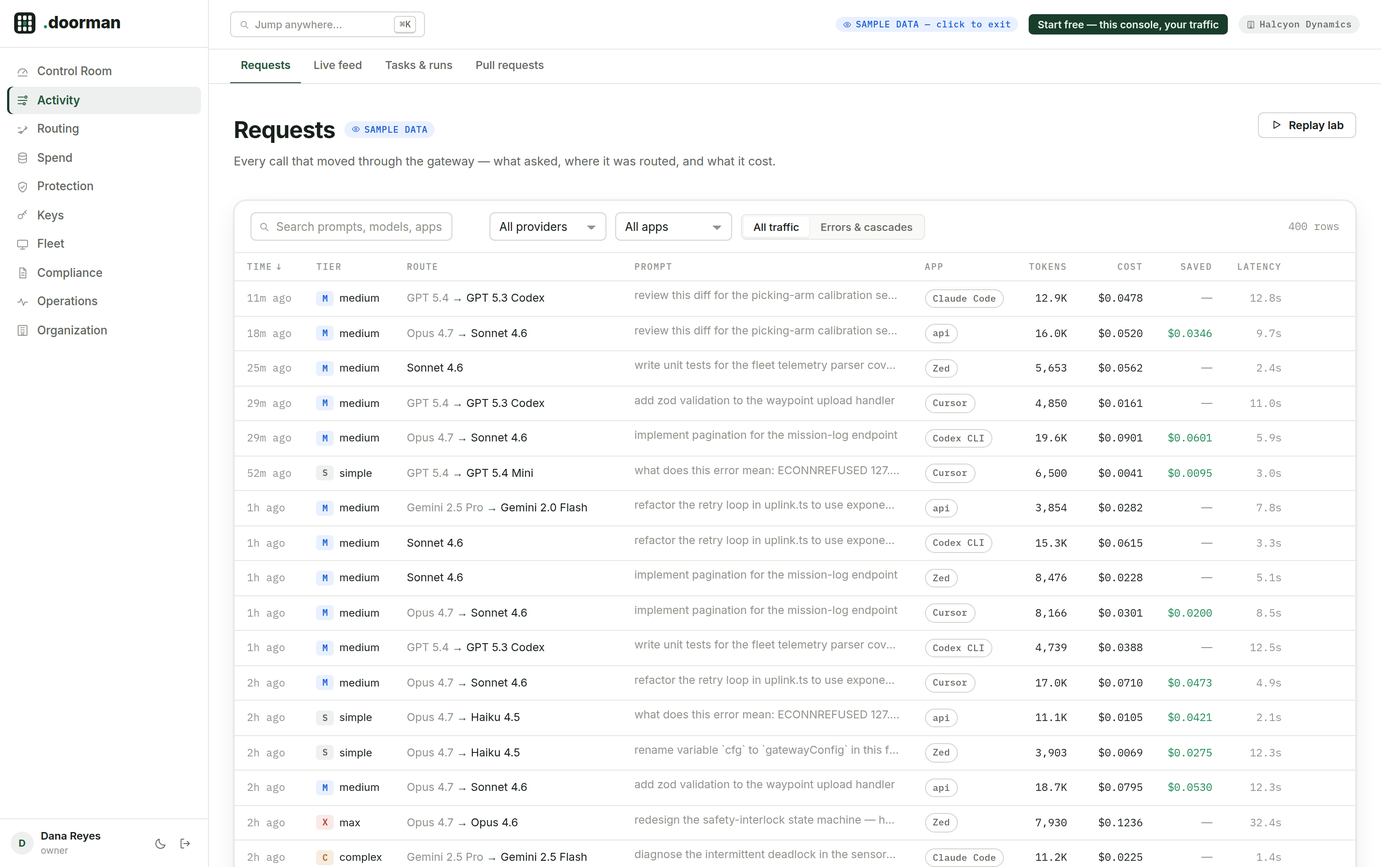
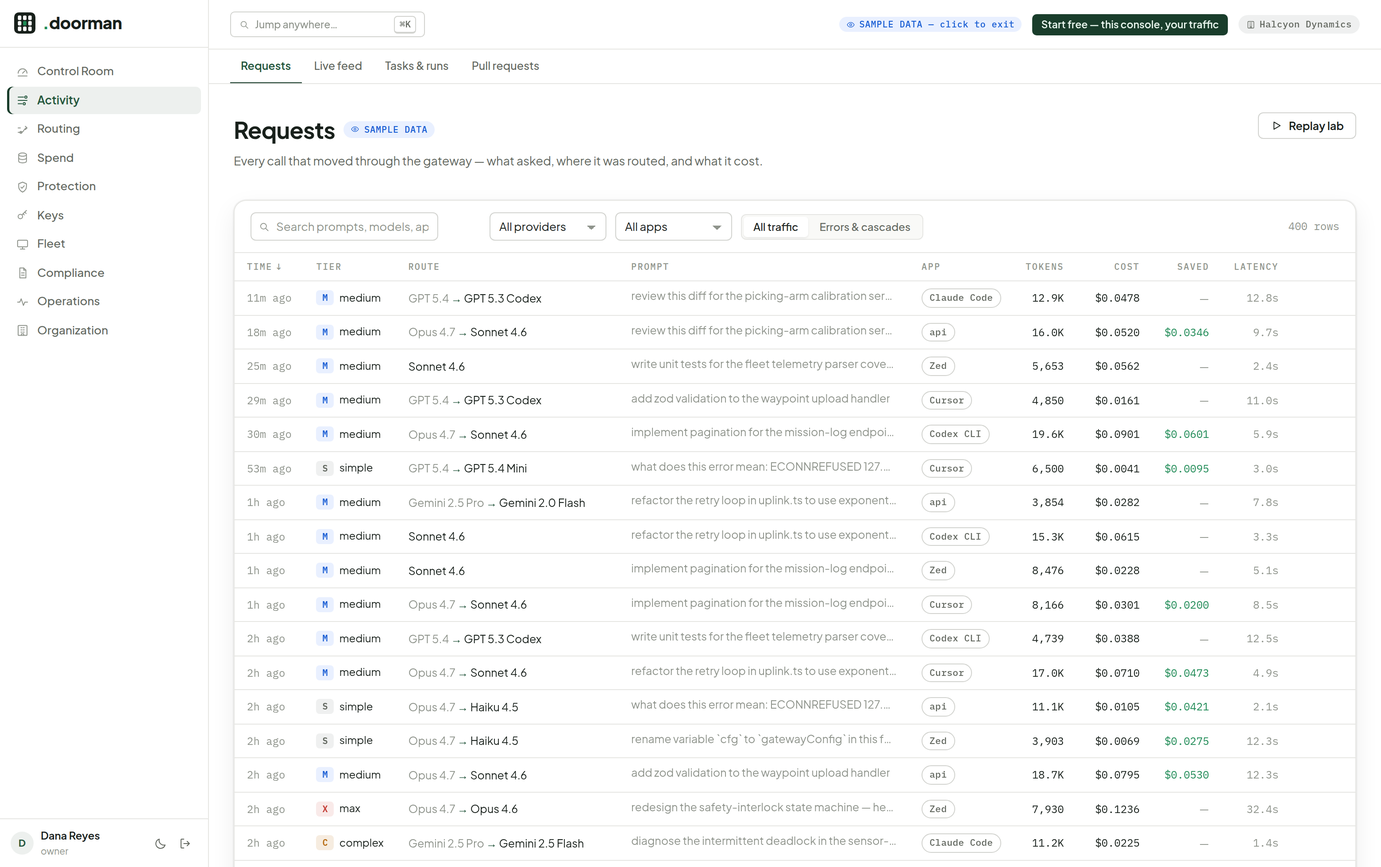
type: Plus Jakarta Sans (ea70011d8)

diff --git a/assets/index-CEr7aOwy.css b/assets/index-CEr7aOwy.css
@@ -1,0 +1,1 @@
+:root{--bg:#fff;--surface:#fff;--surface-2:#f9f9f7;--surface-3:#f1f1ee;--ink:#18201b;--ink-2:#62675f;--ink-3:#8f948c;--line:#e6e6e3;--line-2:#d2d3cf;--shadow:0 0 0 1px #14181408, 0 1px 3px #1418140f, 0 10px 28px #14181412;--shadow-lg:0 4px 12px #14181417, 0 16px 48px #14181424;--brand:#193d2b;--brand-ink:#24563c;--brand-hover:#24563c;--brand-soft:#193d2b14;--brand-ring:#193d2b59;--on-brand:#eaf7ef;--ok:#1e8a55;--ok-mark:#22a061;--ok-soft:#1e8a551f;--warn:#b66a10;--warn-mark:#cf8514;--warn-soft:#b66a1021;--danger:#c43c35;--danger-mark:#d2493f;--danger-soft:#c43c351c;--info:#175cd3;--info-mark:#2970ff;--info-soft:#2970ff1a;--neutral-soft:#4f5a5417;--s1:#0b7a50;--s2:#2f6bc4;--s3:#b98104;--s4:#c13d7f;--s5:#0e87b0;--s6:#d9481f;--s7:#7053d6;--s8:#6b7f1f;--seq-1:#5eb98e;--seq-2:#3aa578;--seq-3:#1c9063;--seq-4:#0b7a50;--seq-5:#086044;--seq-6:#064a35;--seq-7:#053827;--grid:#ecefeb;--axis:#d3d9d2;--tick:#909a93;--font-display:"Plus Jakarta Sans", -apple-system, BlinkMacSystemFont, system-ui, sans-serif;--font-body:"Plus Jakarta Sans", -apple-system, BlinkMacSystemFont, "Segoe UI", sans-serif;--font-mono:"IBM Plex Mono", ui-monospace, "SF Mono", Menlo, monospace;--r-sm:6px;--r-md:10px;--r-lg:14px;--sidebar-w:236px;--topbar-h:56px;--ease:cubic-bezier(.2, .7, .3, 1);--lightningcss-light:initial;--lightningcss-dark: ;color-scheme:light}[data-theme=night]{--bg:#0d1210;--surface:#161d19;--surface-2:#1a221d;--surface-3:#232d27;--ink:#e7ede9;--ink-2:#a6b3ab;--ink-3:#6e7d74;--line:#242d27;--line-2:#333f38;--shadow:0 0 0 1px #00000040, 0 1px 2px #0006, 0 4px 16px #00000059;--shadow-lg:0 4px 12px #00000080, 0 16px 48px #0000008c;--brand:#28a874;--brand-ink:#5ecb9d;--brand-hover:#31b57f;--brand-soft:#28a87424;--brand-ring:#28a87473;--on-brand:#05231a;--ok:#4cc48b;--ok-mark:#2fae72;--ok-soft:#2fae7229;--warn:#e0a63a;--warn-mark:#cf8d13;--warn-soft:#cf8d1326;--danger:#f07b6e;--danger-mark:#e05a4b;--danger-soft:#e05a4b26;--info:#7ba2f5;--info-mark:#5b86ef;--info-soft:#5b86ef26;--neutral-soft:#a6b3ab1f;--s1:#28a874;--s2:#5b8ce8;--s3:#b3830d;--s4:#d75f9e;--s5:#2b95c9;--s6:#e8663c;--s7:#8f7ae8;--s8:#8a9b35;--seq-1:#1e5f45;--seq-2:#277756;--seq-3:#319068;--seq-4:#3da87a;--seq-5:#55bd90;--seq-6:#7fd0aa;--seq-7:#abe2c7;--grid:#202a24;--axis:#333f38;--tick:#6e7d74;--lightningcss-light: ;--lightningcss-dark:initial;color-scheme:dark}*{box-sizing:border-box}html,body{height:100%;margin:0;padding:0}body{background:var(--bg);color:var(--ink);font-family:var(--font-body);-webkit-font-smoothing:antialiased;text-rendering:optimizelegibility;font-size:13.5px;line-height:1.5}#root{min-height:100vh}::selection{background:#1e8a552e}a{color:var(--brand-ink);text-decoration:none}a:hover{text-underline-offset:2px;text-decoration:underline}:focus-visible{outline:2px solid var(--brand-ring);outline-offset:2px;border-radius:4px}::-webkit-scrollbar{width:10px;height:10px}::-webkit-scrollbar-thumb{background:var(--line-2);border:2px solid var(--bg);border-radius:6px}::-webkit-scrollbar-track{background:0 0}@media (prefers-reduced-motion:reduce){*,:before,:after{transition-duration:.01ms!important;animation-duration:.01ms!important}}.h-display{font-family:var(--font-display);letter-spacing:-.02em;font-weight:700;line-height:1.12}h1,.h1{font-family:var(--font-display);letter-spacing:-.02em;margin:0;font-size:26px;font-weight:700}h2,.h2{font-family:var(--font-display);letter-spacing:-.01em;margin:0;font-size:16px;font-weight:600}h3,.h3{font-family:var(--font-body);margin:0;font-size:13.5px;font-weight:600}.overline{font-family:var(--font-mono);text-transform:uppercase;letter-spacing:.14em;color:var(--ink-3);font-size:10.5px;font-weight:500}.muted{color:var(--ink-2)}.faint{color:var(--ink-3)}.small{font-size:12px}.tiny{font-size:11px}.mono{font-family:var(--font-mono)}.num{font-family:var(--font-mono);font-variant-numeric:tabular-nums}.right{text-align:right}.center{text-align:center}.nowrap{white-space:nowrap}.ellipsis{text-overflow:ellipsis;white-space:nowrap;overflow:hidden}.pos{color:var(--ok)}.neg{color:var(--danger)}.brand-ink{color:var(--brand-ink)}.row{align-items:center;display:flex}.col{flex-direction:column;display:flex}.wrap{flex-wrap:wrap}.flex1{flex:auto;min-width:0}.gap2{gap:2px}.gap4{gap:4px}.gap6{gap:6px}.gap8{gap:8px}.gap10{gap:10px}.gap12{gap:12px}.gap16{gap:16px}.gap20{gap:20px}.gap24{gap:24px}.between{justify-content:space-between}.end{justify-content:flex-end}.top{align-items:flex-start}.baseline{align-items:baseline}.grid{gap:18px;display:grid}.grid.cols-2{grid-template-columns:repeat(2,minmax(0,1fr))}.grid.cols-3{grid-template-columns:repeat(3,minmax(0,1fr))}.grid.cols-4{grid-template-columns:repeat(4,minmax(0,1fr))}.grid.cols-5{grid-template-columns:repeat(5,minmax(0,1fr))}.grid.cols-6{grid-template-columns:repeat(6,minmax(0,1fr))}@media (width<=1280px){.grid.cols-4,.grid.cols-5,.grid.cols-6{grid-template-columns:repeat(3,minmax(0,1fr))}}@media (width<=980px){.grid.cols-3,.grid.cols-4,.grid.cols-5,.grid.cols-6{grid-template-columns:repeat(2,minmax(0,1fr))}}@media (width<=680px){.grid.cols-2,.grid.cols-3,.grid.cols-4,.grid.cols-5,.grid.cols-6{grid-template-columns:1fr}}.shell{min-height:100vh;display:flex}.sidebar{width:var(--sidebar-w);flex:0 0 var(--sidebar-w);background:var(--bg);border-right:1px solid var(--line);z-index:30;flex-direction:column;height:100vh;display:flex;position:sticky;top:0}.sidebar-head{border-bottom:1px solid var(--line);padding:14px 16px 10px}.sidebar-nav{flex:1;padding:10px 8px 16px;overflow-y:auto}.sidebar-foot{border-top:1px solid var(--line);padding:10px 12px}.nav-group{margin-bottom:4px}.nav-group-label{font-family:var(--font-mono);text-transform:uppercase;letter-spacing:.16em;color:var(--ink-3);-webkit-user-select:none;user-select:none;padding:10px 10px 4px;font-size:10px;font-weight:500}.nav-item{border-radius:var(--r-sm);color:var(--ink-2);cursor:pointer;text-align:left;width:100%;transition:background .12s var(--ease), color .12s var(--ease);background:0 0;border:none;align-items:center;gap:9px;margin:1px 0;padding:6px 10px;font-size:13px;font-weight:450;text-decoration:none;display:flex}.nav-item:hover{background:var(--surface-3);color:var(--ink);text-decoration:none}.nav-item.active{background:var(--brand-soft);color:var(--brand-ink);box-shadow:inset 2.5px 0 0 var(--brand);font-weight:550}.nav-item.active .nav-ico{color:var(--brand-ink)}.nav-ico{width:15px;height:15px;color:var(--ink-3);flex:0 0 15px;display:inline-flex}.nav-badge{font-family:var(--font-mono);background:var(--surface-3);color:var(--ink-3);border-radius:99px;margin-left:auto;padding:1px 6px;font-size:10px}.topbar{height:var(--topbar-h);border-bottom:1px solid var(--line);background:color-mix(in srgb, var(--bg) 88%, transparent);-webkit-backdrop-filter:blur(8px);backdrop-filter:blur(8px);z-index:20;align-items:center;gap:12px;padding:0 24px;display:flex;position:sticky;top:0}.subnav{border-bottom:1px solid var(--line);background:var(--surface);scrollbar-width:none;align-items:center;gap:2px;padding:0 24px;display:flex;overflow-x:auto}.subnav::-webkit-scrollbar{display:none}.subnav a{color:var(--ink-2);white-space:nowrap;border-bottom:2px solid #0000;margin-bottom:-1px;padding:9px 12px;font-size:12.5px;font-weight:500;text-decoration:none;transition:color .12s}.subnav a:hover{color:var(--ink);text-decoration:none}.subnav a.on{color:var(--brand-ink);border-bottom-color:var(--brand);font-weight:600}.main{flex-direction:column;flex:1;min-width:0;display:flex}.page{width:100%;max-width:1480px;margin:0 auto;padding:32px 28px 44px}.page-header{margin-bottom:20px}.page-title-row{flex-wrap:wrap;justify-content:space-between;align-items:flex-start;gap:16px;display:flex}.page-desc{color:var(--ink-2);max-width:760px;margin-top:6px;font-size:13.5px;line-height:1.55}.card{background:var(--surface);border:1px solid var(--line);border-radius:var(--r-lg);box-shadow:var(--shadow)}.card-pad{padding:18px 20px}.card-head{border-bottom:1px solid var(--line);justify-content:space-between;align-items:center;gap:12px;padding:13px 18px;display:flex}.card-head .select{width:auto;min-width:132px}.card-head .input{width:auto}.card-title{font-family:var(--font-display);letter-spacing:0;font-size:13.5px;font-weight:600}.card-sub{color:var(--ink-3);margin-top:1px;font-size:11.5px}.well{background:var(--surface-2);border:1px solid var(--line);border-radius:var(--r-md);padding:12px 14px}.stat{min-width:0;padding:14px 18px 12px}.stat-label{color:var(--ink-2);align-items:center;gap:6px;font-size:12px;font-weight:450;display:flex}.stat-value{font-family:var(--font-mono);letter-spacing:-.02em;color:var(--ink);margin-top:4px;font-size:26px;font-weight:600;line-height:1.2}.stat-value .unit{color:var(--ink-3);font-size:15px;font-weight:450}.stat-delta{align-items:center;gap:6px;margin-top:3px;font-size:11.5px;display:flex}.hero-num{font-family:var(--font-mono);letter-spacing:-.03em;font-size:48px;font-weight:600;line-height:1.05}.btn{font-family:var(--font-body);border-radius:var(--r-sm);cursor:pointer;white-space:nowrap;transition:background .12s var(--ease), border-color .12s var(--ease), color .12s var(--ease), transform 60ms;-webkit-user-select:none;user-select:none;border:1px solid #0000;justify-content:center;align-items:center;gap:7px;padding:6px 13px;font-size:12.5px;font-weight:550;text-decoration:none;display:inline-flex}.btn:active{transform:translateY(.5px)}.btn:disabled{opacity:.5;cursor:not-allowed}.btn-primary{background:var(--brand);color:var(--on-brand)}.btn-primary:hover{background:var(--brand-hover)}.btn-secondary{background:var(--surface);color:var(--ink);border-color:var(--line-2)}.btn-secondary:hover{background:var(--surface-3)}.btn-ghost{color:var(--ink-2);background:0 0}.btn-ghost:hover{background:var(--surface-3);color:var(--ink)}.btn-danger{color:var(--danger);border-color:color-mix(in srgb, var(--danger-mark) 45%, transparent);background:0 0}.btn-danger:hover{background:var(--danger-soft)}.btn-sm{border-radius:5px;padding:3.5px 9px;font-size:11.5px}.btn-lg{border-radius:var(--r-md);padding:9px 20px;font-size:13.5px}.iconbtn{border-radius:var(--r-sm);width:28px;height:28px;color:var(--ink-2);cursor:pointer;background:0 0;border:none;justify-content:center;align-items:center;display:inline-flex}.iconbtn:hover{background:var(--surface-3);color:var(--ink)}.badge{font-family:var(--font-mono);letter-spacing:.02em;white-space:nowrap;border:1px solid #0000;border-radius:99px;align-items:center;gap:5px;padding:2px 8px;font-size:10.5px;font-weight:500;display:inline-flex}.badge.ok{background:var(--ok-soft);color:var(--ok)}.badge.warn{background:var(--warn-soft);color:var(--warn)}.badge.danger{background:var(--danger-soft);color:var(--danger)}.badge.info{background:var(--info-soft);color:var(--info)}.badge.neutral{background:var(--neutral-soft);color:var(--ink-2)}.badge.brand{background:var(--brand-soft);color:var(--brand-ink)}.badge.outline{border-color:var(--line-2);color:var(--ink-2);background:0 0}.lamp{border-radius:99px;flex:0 0 8px;width:8px;height:8px;position:relative}.lamp.ok{background:var(--ok-mark);box-shadow:0 0 0 3px var(--ok-soft)}.lamp.warn{background:var(--warn-mark);box-shadow:0 0 0 3px var(--warn-soft)}.lamp.danger{background:var(--danger-mark);box-shadow:0 0 0 3px var(--danger-soft)}.lamp.info{background:var(--info-mark);box-shadow:0 0 0 3px var(--info-soft)}.lamp.neutral{background:var(--ink-3);box-shadow:0 0 0 3px var(--neutral-soft)}.lamp.pulse:after{content:"";opacity:0;border:1.5px solid;border-radius:99px;animation:2.2s ease-out infinite lampPulse;position:absolute;inset:-3px}.lamp.ok.pulse:after{color:var(--ok-mark)}.lamp.danger.pulse:after{color:var(--danger-mark)}@keyframes lampPulse{0%{opacity:.7;transform:scale(.6)}70%{opacity:0;transform:scale(1.5)}to{opacity:0}}.tier-plate{font-family:var(--font-mono);letter-spacing:.02em;border:1px solid #0000;border-radius:4px;justify-content:center;align-items:center;width:20px;height:17px;font-size:10px;font-weight:600;display:inline-flex}.tier-plate.simple{background:var(--neutral-soft);color:var(--ink-2)}.tier-plate.medium{background:var(--info-soft);color:var(--info)}.tier-plate.complex{background:var(--warn-soft);color:var(--warn)}.tier-plate.max{background:var(--danger-soft);color:var(--danger)}.table-wrap{border-radius:0 0 var(--r-lg) var(--r-lg);overflow-x:auto}table.tbl{border-collapse:collapse;width:100%;font-size:12.5px}.tbl thead th{font-family:var(--font-mono);text-transform:uppercase;letter-spacing:.12em;color:var(--ink-3);text-align:left;border-bottom:1px solid var(--line);white-space:nowrap;background:var(--surface);z-index:1;padding:8px 14px;font-size:10px;font-weight:500;position:sticky;top:0}.tbl thead th.sortable{cursor:pointer;-webkit-user-select:none;user-select:none}.tbl thead th.sortable:hover{color:var(--ink)}.tbl tbody td{border-bottom:1px solid var(--line);vertical-align:middle;padding:7px 14px}.tbl tbody tr:last-child td{border-bottom:none}.tbl tbody tr{transition:background 90ms}.tbl tbody tr:hover{background:var(--surface-2)}.tbl tbody tr.clickable{cursor:pointer}.tbl .num{font-size:12px}.tbl-empty{text-align:center;color:var(--ink-3);padding:32px}.field{flex-direction:column;gap:5px;min-width:0;display:flex}.field-label{color:var(--ink);align-items:center;gap:6px;font-size:12px;font-weight:550;display:flex}.field-hint{color:var(--ink-3);font-size:11.5px}.input,.select,textarea.input{font-family:var(--font-body);color:var(--ink);background:var(--surface);border:1px solid var(--line-2);border-radius:var(--r-sm);width:100%;padding:7px 10px;font-size:13px;transition:border-color .12s,box-shadow .12s}.input.mono{font-family:var(--font-mono);font-size:12.5px}.input:focus,.select:focus,textarea.input:focus{border-color:var(--brand);box-shadow:0 0 0 3px var(--brand-soft);outline:none}.input::placeholder{color:var(--ink-3)}.select{appearance:none;background-image:linear-gradient(45deg, transparent 50%, var(--ink-3) 50%), linear-gradient(135deg, var(--ink-3) 50%, transparent 50%);background-position:calc(100% - 16px) 55%,calc(100% - 11px) 55%;background-repeat:no-repeat;background-size:5px 5px;padding-right:28px}.toggle{background:var(--line-2);cursor:pointer;width:34px;height:19px;transition:background .14s var(--ease);border:none;border-radius:99px;flex:0 0 34px;position:relative}.toggle:after{content:"";background:var(--surface);width:15px;height:15px;transition:transform .14s var(--ease);border-radius:99px;position:absolute;top:2px;left:2px;box-shadow:0 1px 2px #00000040}.toggle.on{background:var(--brand)}.toggle.on:after{transform:translate(15px)}.toggle:disabled{opacity:.5;cursor:not-allowed}.seg{background:var(--surface-2);border:1px solid var(--line);border-radius:var(--r-sm);gap:2px;padding:2px;display:inline-flex}.seg button{font-family:var(--font-body);color:var(--ink-2);cursor:pointer;background:0 0;border:none;border-radius:4px;padding:4px 11px;font-size:12px;font-weight:500;transition:background .12s,color .12s}.seg button.on{background:var(--surface);color:var(--ink);box-shadow:0 1px 2px #00000014}.seg button:hover:not(.on){color:var(--ink)}.modal-backdrop{-webkit-backdrop-filter:blur(2px);backdrop-filter:blur(2px);z-index:100;animation:fadeIn .14s var(--ease);background:#14120e73;justify-content:center;align-items:flex-start;padding:8vh 20px 20px;display:flex;position:fixed;inset:0}.modal{background:var(--surface);border:1px solid var(--line);border-radius:var(--r-lg);box-shadow:var(--shadow-lg);width:100%;max-width:560px;max-height:82vh;animation:riseIn .16s var(--ease);flex-direction:column;display:flex;overflow:hidden}.modal.wide{max-width:860px}.modal-body{padding:18px;overflow-y:auto}.modal-foot{border-top:1px solid var(--line);justify-content:flex-end;gap:8px;padding:12px 18px;display:flex}.drawer-backdrop{z-index:100;animation:fadeIn .14s var(--ease);background:#14120e59;position:fixed;inset:0}.drawer{z-index:101;background:var(--surface);border-left:1px solid var(--line);width:min(560px,92vw);box-shadow:var(--shadow-lg);animation:slideIn .18s var(--ease);flex-direction:column;display:flex;position:fixed;top:0;bottom:0;right:0}.drawer-body{flex:1;padding:18px;overflow-y:auto}@keyframes fadeIn{0%{opacity:0}}@keyframes riseIn{0%{opacity:0;transform:translateY(10px)scale(.99)}}@keyframes slideIn{0%{opacity:.5;transform:translate(24px)}}.toast-stack{z-index:200;flex-direction:column;gap:8px;display:flex;position:fixed;bottom:18px;right:18px}.toast{background:var(--ink);color:var(--bg);border-radius:var(--r-md);box-shadow:var(--shadow-lg);max-width:380px;animation:riseIn .16s var(--ease);align-items:center;gap:10px;padding:10px 14px;font-size:12.5px;font-weight:500;display:flex}.toast.err{background:var(--danger-mark);color:#fff}.banner{border-radius:var(--r-md);border:1px solid;align-items:center;gap:10px;padding:8px 14px;font-size:12.5px;display:flex}.banner.warn{background:var(--warn-soft);border-color:color-mix(in srgb, var(--warn-mark) 35%, transparent);color:var(--warn)}.banner.info{background:var(--info-soft);border-color:color-mix(in srgb, var(--info-mark) 30%, transparent);color:var(--info)}.banner.danger{background:var(--danger-soft);border-color:color-mix(in srgb, var(--danger-mark) 32%, transparent);color:var(--danger)}.skl{background:linear-gradient(100deg, var(--surface-2) 40%, var(--surface-3) 50%, var(--surface-2) 60%);border-radius:var(--r-sm);background-size:200% 100%;min-height:12px;animation:1.4s linear infinite shimmer}@keyframes shimmer{to{background-position:-200% 0}}.empty{text-align:center;color:var(--ink-2);flex-direction:column;justify-content:center;align-items:center;gap:8px;padding:44px 24px;display:flex}.empty svg{opacity:.5}.empty .empty-title{font-family:var(--font-display);color:var(--ink);font-size:14px;font-weight:600}.meter{background:var(--surface-3);border-radius:99px;height:6px;position:relative;overflow:hidden}.meter>i{background:var(--brand);height:100%;transition:width .4s var(--ease);border-radius:99px;display:block}.meter.ok>i{background:var(--ok-mark)}.meter.warn>i{background:var(--warn-mark)}.meter.danger>i{background:var(--danger-mark)}.meter .tick{background:var(--surface);opacity:.9;width:1.5px;position:absolute;top:0;bottom:0}.stat-prev{color:var(--ink-3);font-size:11px;font-family:var(--font-mono);margin-top:2px}.code{font-family:var(--font-mono);background:var(--surface-2);border:1px solid var(--line);border-radius:var(--r-md);white-space:pre;padding:12px 14px;font-size:12px;line-height:1.6;position:relative;overflow-x:auto}kbd{font-family:var(--font-mono);border:1px solid var(--line-2);background:var(--surface);color:var(--ink-2);border-bottom-width:2px;border-radius:4px;padding:1.5px 5px;font-size:10.5px}.tabs{border-bottom:1px solid var(--line);gap:2px;margin-bottom:16px;display:flex;overflow-x:auto}.tabs button{font-family:var(--font-body);color:var(--ink-2);cursor:pointer;white-space:nowrap;background:0 0;border:none;border-bottom:2px solid #0000;margin-bottom:-1px;padding:8px 13px;font-size:12.5px;font-weight:500;transition:color .12s}.tabs button:hover{color:var(--ink)}.tabs button.on{color:var(--brand-ink);border-bottom-color:var(--brand);font-weight:600}.kv{grid-template-columns:minmax(120px,max-content) 1fr;gap:6px 18px;font-size:12.5px;display:grid}.kv dt{color:var(--ink-3)}.kv dd{color:var(--ink);overflow-wrap:anywhere;min-width:0;margin:0}.palette-backdrop{z-index:150;background:#14120e66;justify-content:center;align-items:flex-start;padding-top:14vh;animation:.1s fadeIn;display:flex;position:fixed;inset:0}.palette{background:var(--surface);border:1px solid var(--line);border-radius:var(--r-lg);width:min(600px,92vw);box-shadow:var(--shadow-lg);animation:riseIn .13s var(--ease);overflow:hidden}.palette input{width:100%;font-family:var(--font-body);color:var(--ink);border:none;border-bottom:1px solid var(--line);background:0 0;outline:none;padding:14px 18px;font-size:14.5px}.palette-list{max-height:46vh;padding:6px;overflow-y:auto}.palette-item{border-radius:var(--r-sm);cursor:pointer;color:var(--ink-2);align-items:center;gap:10px;padding:8px 12px;font-size:13px;display:flex}.palette-item.hot{background:var(--brand-soft);color:var(--brand-ink)}.palette-item .crumb{font-family:var(--font-mono);color:var(--ink-3);margin-left:auto;font-size:10px}.viztip{z-index:300;pointer-events:none;background:var(--ink);color:var(--bg);box-shadow:var(--shadow-lg);border-radius:7px;max-width:300px;padding:7px 10px;font-size:11.5px;line-height:1.45;position:fixed}.viztip .tt-title{font-family:var(--font-mono);opacity:.7;margin-bottom:3px;font-size:10px}.viztip .tt-row{justify-content:space-between;align-items:center;gap:6px;display:flex}.viztip .tt-row .num{font-family:var(--font-mono)}.viztip .sw{border-radius:2px;flex:0 0 7px;width:7px;height:7px;display:inline-block}.legend{color:var(--ink-2);flex-wrap:wrap;gap:4px 14px;font-size:11.5px;display:flex}.legend .lg-item{cursor:default;align-items:center;gap:6px;display:inline-flex}.legend .sw{border-radius:3px;width:9px;height:9px;display:inline-block}.legend .lg-line{border-radius:2px;width:12px;height:2px;display:inline-block}.steps{align-items:center;gap:8px;display:flex}.step{color:var(--ink-3);align-items:center;gap:8px;font-size:12px;display:flex}.step .dot{width:20px;height:20px;font-family:var(--font-mono);border:1px solid var(--line-2);background:var(--surface);border-radius:99px;justify-content:center;align-items:center;font-size:10.5px;display:inline-flex}.step.done .dot{background:var(--ok-soft);color:var(--ok);border-color:#0000}.step.now{color:var(--ink);font-weight:550}.step.now .dot{background:var(--brand);color:var(--on-brand);border-color:#0000}.step-rail{background:var(--line-2);width:22px;height:1px}.nobackend{font-family:var(--font-mono);background:repeating-linear-gradient(-45deg, var(--warn-soft), var(--warn-soft) 6px, transparent 6px, transparent 10px);border:1px dashed var(--warn-mark);color:var(--warn);letter-spacing:.04em;border-radius:6px;align-items:center;gap:6px;padding:3px 9px;font-size:10.5px;font-weight:600;display:inline-flex}.samplechip{font-family:var(--font-mono);background:var(--info-soft);color:var(--info);letter-spacing:.05em;border-radius:99px;align-items:center;gap:5px;padding:2px 8px;font-size:10px;font-weight:500;display:inline-flex}.auth-wrap{grid-template-columns:minmax(420px,44%) 1fr;min-height:100vh;display:grid}@media (width<=900px){.auth-wrap{grid-template-columns:1fr}.auth-art{display:none}}.auth-panel{background:var(--surface);border-right:1px solid var(--line);flex-direction:column;padding:28px 48px;display:flex}.auth-art{background:var(--bg);position:relative;overflow:hidden}.auth-card{width:100%;max-width:360px;margin:auto}.feed-row{animation:feedIn .26s var(--ease)}@keyframes feedIn{0%{opacity:0;background:var(--brand-soft);transform:translateY(-6px)}}.diff-line{font-family:var(--font-mono);white-space:pre-wrap;overflow-wrap:anywhere;padding:1px 10px;font-size:11.5px}.diff-line.add{background:var(--ok-soft);color:var(--ok)}.diff-line.del{background:var(--danger-soft);color:var(--danger)}.diff-line.ctx{color:var(--ink-3)}.lpl{--l-bg:#fff;--l-surface:#f9f9f7;--l-raised:#fff;--l-ink:#18201b;--l-mut:#62675f;--l-soft:#8f948c;--l-line:#1418121a;--l-line-strong:#14181229;--l-forest:#193d2b;--l-forest-2:#24563c;--l-protected:#1e8a55;--l-shadow:0 28px 80px #1b2a2033, 0 3px 12px #1b2a201f;min-height:100vh;color:var(--l-ink);--ink:#193d2b;--bg:#fff;--brand:#7ee2b0;background:radial-gradient(circle at 90% 20%,#1e8a550d,#1e8a5500 36%),#fff;font-family:Plus Jakarta Sans,-apple-system,BlinkMacSystemFont,Segoe UI,sans-serif;font-size:16px;font-weight:400;line-height:1.5;overflow-x:hidden}.lpl-wrap{max-width:1280px;margin:0 auto;padding-left:24px;padding-right:24px}.lpl-white{color:var(--l-ink)}.lpl-nav{z-index:60;-webkit-backdrop-filter:blur(24px)saturate(140%);backdrop-filter:blur(24px)saturate(140%);border-bottom:1px solid var(--l-line);background:#ffffffd9;height:73px;position:fixed;top:0;left:0;right:0}.lpl-nav-in{justify-content:space-between;align-items:center;height:73px;display:flex}.lpl-nav-links{align-items:center;gap:26px;display:flex}.lpl-nav-links a,.lpl-ghostlink{color:var(--l-mut);cursor:pointer;background:0 0;border:none;padding:0;font-family:inherit;font-size:13px;text-decoration:none}.lpl-nav-links a:hover,.lpl-ghostlink:hover{color:var(--l-ink);text-decoration:none}.lpl-pill{background:var(--l-forest);color:#eaf7ef;cursor:pointer;transition:background .12s var(--ease);border:none;border-radius:9999px;padding:8px 16px;font-family:inherit;font-size:13px;font-weight:500;box-shadow:0 4px 12px #193d2b40}.lpl-pill:hover{background:var(--l-forest-2)}.lpl-pill:disabled{opacity:.6;cursor:default}.lpl-ghost{background:var(--l-raised);color:var(--l-ink);border:1px solid var(--l-line-strong);cursor:pointer;transition:border-color .12s var(--ease);border-radius:9999px;padding:8px 16px;font-family:inherit;font-size:13px;font-weight:500}.lpl-ghost:hover{border-color:#193d2b73}.lpl-pill-lg{padding:12px 22px;font-size:15px}.lpl-hero{padding-top:268px}.lpl-hero h1{letter-spacing:-.022em;color:var(--l-ink);margin:0 0 40px;font-size:clamp(44px,4.6vw,64px);font-weight:700;line-height:1}.lpl-hero-row{flex-wrap:wrap;justify-content:space-between;align-items:baseline;gap:24px;display:flex}.lpl-sub{color:var(--l-mut);max-width:56ch;margin:0;font-size:17px;line-height:1.5}.lpl-newlink{cursor:pointer;color:var(--l-mut);white-space:nowrap;background:0 0;border:none;padding:0;font-family:inherit;font-size:15px}.lpl-newlink:hover{color:var(--l-forest-2)}.lpl-window-wrap{margin-top:64px}.lpl-window{background:var(--l-raised);border:1px solid var(--l-line-strong);box-shadow:var(--l-shadow);border-radius:14px;overflow:hidden}.lpl-window img{width:100%;height:auto;display:block}.lpl-state{padding-top:160px}.lpl-state h2{letter-spacing:-.022em;color:var(--l-mut);text-wrap:balance;max-width:1250px;margin:0 0 48px;font-size:clamp(32px,3.4vw,48px);font-weight:700;line-height:1.08}.lpl-cards{grid-template-columns:1fr 1fr;align-items:start;gap:20px;display:grid}@media (width<=860px){.lpl-cards{grid-template-columns:1fr}}.lpl-card{background:var(--l-raised);border:1px solid var(--l-line);border-radius:14px;overflow:hidden;box-shadow:0 12px 40px #1b2a201a}.lpl-card img{width:100%;height:auto;display:block}.lpl-card-cap{color:var(--l-mut);border-top:1px solid var(--l-line);padding:14px 18px;font-size:13px}.lpl-card-full{max-width:100%}.lpl-play{background:var(--l-raised);border:1px solid var(--l-line);border-radius:14px;padding:16px 18px;box-shadow:0 12px 40px #1b2a201a}.lpl-play-in{flex-wrap:wrap;gap:12px;display:flex}.lpl-play-in input{background:var(--l-surface);min-width:240px;color:var(--l-ink);border:1px solid var(--l-line-strong);border-radius:10px;flex:1;padding:10px 14px;font-family:inherit;font-size:14px}.lpl-play-in input:focus{border-color:var(--l-protected);outline:none}.lpl-play-out{border-top:1px solid var(--l-line);color:var(--l-mut);margin-top:14px;padding-top:14px;font-size:15px}.lpl-statsband{background:linear-gradient(140deg, var(--l-forest) 0%, #143122 70%);box-shadow:var(--l-shadow);border:none;border-radius:18px;grid-template-columns:repeat(3,1fr);gap:20px;margin-top:160px;padding:44px 46px;display:grid}@media (width<=700px){.lpl-statsband{grid-template-columns:1fr}}.lpl-stat{letter-spacing:-.022em;color:#f2faf5;font-size:48px;font-weight:700;line-height:1.1}.lpl-statl{color:#b9d5c4;margin-top:6px;font-size:13px}.lpl-cta{padding-top:140px;padding-bottom:120px}.lpl-cta h2{letter-spacing:-.022em;margin:0 0 32px;font-size:clamp(32px,3.4vw,48px);font-weight:510;line-height:1.08}.lpl-cta-row{flex-wrap:wrap;gap:12px;display:flex}.lpl-footer{border-top:1px solid var(--l-line);flex-wrap:wrap;justify-content:space-between;align-items:center;gap:16px;padding-top:24px;padding-bottom:40px;display:flex}.lpl-nav-left{align-items:center;gap:30px;display:flex}.lpl-nav-menus{gap:6px}.lpl-menu{position:relative}.lpl-menubtn{cursor:pointer;color:var(--l-mut);background:0 0;border:none;border-radius:8px;align-items:center;gap:5px;padding:8px 10px;font-family:inherit;font-size:13px;text-decoration:none;display:inline-flex}.lpl-menubtn:hover,.lpl-menubtn.on{color:var(--l-ink);background:#18201b0f;text-decoration:none}.lpl-caret{opacity:.7;font-size:9px}.lpl-menupanel{z-index:70;background:var(--l-raised);border:1px solid var(--l-line);border-radius:14px;flex-direction:column;gap:2px;min-width:300px;padding:8px;animation:.12s fadeIn;display:flex;position:absolute;top:40px;left:0;box-shadow:0 24px 70px #1b2a202e}.lpl-menuitem{text-align:left;cursor:pointer;background:0 0;border:none;border-radius:8px;flex-direction:column;gap:1px;padding:9px 12px;font-family:inherit;display:flex}.lpl-menuitem:hover{background:#18201b0f}.lpl-mi-t{color:var(--l-ink);font-size:13.5px;font-weight:500}.lpl-mi-d{color:var(--l-mut);font-size:12px}@media (width<=940px){.lpl-nav-menus{display:none}}.lpl-grid3{grid-template-columns:repeat(3,1fr);gap:16px;display:grid}.lpl-grid4{grid-template-columns:repeat(4,1fr);gap:16px;display:grid}@media (width<=980px){.lpl-grid3,.lpl-grid4{grid-template-columns:repeat(2,1fr)}}@media (width<=640px){.lpl-grid3,.lpl-grid4{grid-template-columns:1fr}}.lpl-tile{background:var(--l-raised);border:1px solid var(--l-line);border-radius:14px;flex-direction:column;gap:8px;padding:20px 22px;display:flex;box-shadow:0 8px 30px #1b2a2012}.lpl-tile-t{color:var(--l-ink);letter-spacing:-.01em;font-size:15px;font-weight:600}.lpl-tile-d{color:var(--l-mut);font-size:13.5px;line-height:1.55}.lpl-pricing{align-items:stretch}.lpl-price{gap:6px}.lpl-price .lpl-pill,.lpl-price .lpl-ghost{align-self:flex-start;margin-top:auto}.lpl-price.hot{border-color:#193d2b73;box-shadow:0 16px 50px #1b2a2029}.lpl-price-n{letter-spacing:-.022em;color:var(--l-ink);font-size:34px;font-weight:700;line-height:1.1}.lpl-price-per{color:var(--l-mut);margin-bottom:6px;font-size:12px}.lpl-fineline{color:var(--l-mut);margin-top:16px;font-size:12.5px}.lpl-burger{border:1px solid var(--l-line-strong);background:var(--l-raised);cursor:pointer;border-radius:8px;flex-direction:column;justify-content:center;align-items:center;gap:4px;width:34px;height:34px;padding:0;display:none}.lpl-burger i{background:var(--l-ink);border-radius:1px;width:16px;height:2px;display:block}@media (width<=940px){.lpl-burger{display:inline-flex}}.lpl-sheet{z-index:59;background:var(--l-bg);flex-direction:column;padding:18px 24px 32px;display:none;position:fixed;inset:73px 0 0;overflow-y:auto}@media (width<=940px){.lpl-sheet{display:flex}}.lpl-sheet button{text-align:left;color:var(--l-ink);border:none;border-bottom:1px solid var(--l-line);cursor:pointer;background:0 0;padding:14px 8px;font-size:17px}.lpl-sheet .lpl-pill{text-align:center;background:var(--l-forest);color:#eaf7ef;border-bottom:none;margin-top:16px;font-size:15px}.lpl-cta-snip{align-items:stretch;gap:10px;max-width:640px;margin:6px 0 10px;display:flex}.lpl-cta-snip .lpl-snip{text-align:left;flex:1;padding:14px 16px;font-size:12px}.lpl-cta-copy{white-space:nowrap;align-self:center}@media (width<=640px){.lpl-cta-snip{flex-direction:column}.lpl-cta-copy{align-self:flex-start}}.ob-or{max-width:520px;color:var(--ink-3);align-items:center;gap:10px;margin:14px 0 12px;font-size:12px;display:flex}.ob-or:before,.ob-or:after{content:"";background:var(--line);flex:1;height:1px}.lpl-doc-toc{flex-wrap:wrap;gap:10px;display:flex}.lpl-doc-toc button{cursor:pointer;background:var(--l-raised);border:1px solid var(--l-line-strong);color:var(--l-ink);border-radius:999px;padding:8px 16px;font-size:13px}.lpl-doc-toc button:hover{border-color:var(--l-forest-2)}.lpl-doc-tabs{border:1px solid var(--l-line-strong);border-radius:8px;margin-bottom:14px;display:inline-flex;overflow:hidden}.lpl-doc-tabs button{background:var(--l-raised);cursor:pointer;color:var(--l-mut);border:none;padding:8px 15px;font-size:12.5px}.lpl-doc-tabs button+button{border-left:1px solid var(--l-line)}.lpl-doc-tabs button.on{background:var(--l-forest);color:#eaf7ef}.lpl-snip{color:#d8e2da;font-family:var(--font-mono);background:#18201b;border-radius:12px;margin:0;padding:18px 20px;font-size:12.5px;line-height:1.65;overflow-x:auto;box-shadow:0 16px 50px #1b2a2024}.lpl-doc-table{border:1px solid var(--l-line);background:var(--l-raised);border-radius:12px;overflow:hidden}.lpl-doc-tr{color:var(--l-ink);grid-template-columns:140px 1.2fr 1fr;gap:16px;padding:11px 18px;font-size:13.5px;display:grid}.lpl-doc-tr.two{grid-template-columns:minmax(240px,1fr) 1.4fr}.lpl-doc-tr+.lpl-doc-tr{border-top:1px solid var(--l-line)}.lpl-doc-th{background:var(--l-surface);text-transform:uppercase;letter-spacing:.06em;color:var(--l-mut);font-size:11.5px}.lpl-doc-th.lpl-doc-tr.two{grid-template-columns:minmax(240px,1fr) 1.4fr}.lpl-doc-mono{font-family:var(--font-mono);color:var(--l-forest-2);font-size:12.5px;font-weight:600}.lpl-doc-guar.lpl-grid4{grid-template-columns:repeat(2,1fr)}@media (width<=680px){.lpl-doc-tr,.lpl-doc-tr.two{grid-template-columns:1fr;gap:4px}.lpl-doc-guar.lpl-grid4{grid-template-columns:1fr}}.lpl-tools{grid-template-columns:repeat(4,1fr);gap:10px;display:grid}.lpl-tool{background:var(--l-raised);border:1px solid var(--l-line);cursor:pointer;font:inherit;text-align:left;border-radius:10px;justify-content:space-between;align-items:center;gap:10px;padding:12px 16px;display:flex}.lpl-tool:hover{border-color:var(--l-forest-2)}.lpl-tool-n{color:var(--l-ink);white-space:nowrap;font-size:13.5px;font-weight:600}.lpl-tool-how{color:var(--l-mut);background:var(--l-surface);border:1px solid var(--l-line);white-space:nowrap;border-radius:6px;padding:2px 8px;font-size:11px}.lpl-tool-how.shadow{color:#b66a10;background:#fff3de;border-color:#b66a1040}@media (width<=980px){.lpl-tools{grid-template-columns:repeat(2,1fr)}}@media (width<=560px){.lpl-tools{grid-template-columns:1fr}}.lpl-roi{background:var(--l-raised);border:1px solid var(--l-line);border-radius:14px;grid-template-columns:1fr 1fr;gap:36px;margin-top:28px;padding:30px 32px;display:grid;box-shadow:0 16px 50px #1b2a201a}.lpl-roi-lab{color:var(--l-mut);justify-content:space-between;align-items:baseline;margin:16px 0 6px;font-size:13px;display:flex}.lpl-roi-val{color:var(--l-ink);font-variant-numeric:tabular-nums;font-weight:600}.lpl-roi input[type=range]{width:100%;accent-color:var(--l-forest)}.lpl-roi-seg{border:1px solid var(--l-line-strong);border-radius:8px;align-self:flex-start;margin-top:18px;display:inline-flex;overflow:hidden}.lpl-roi-seg button{background:var(--l-raised);cursor:pointer;color:var(--l-mut);border:none;padding:7px 14px;font-size:12.5px}.lpl-roi-seg button+button{border-left:1px solid var(--l-line)}.lpl-roi-seg button.on{background:var(--l-forest);color:#eaf7ef}.lpl-roi-l{flex-direction:column;display:flex}.lpl-roi-r{flex-direction:column;justify-content:center;display:flex}.lpl-roi-net{letter-spacing:-.025em;color:var(--l-forest-2);font-variant-numeric:tabular-nums;font-size:44px;font-weight:700;line-height:1}.lpl-roi-net span{color:var(--l-mut);letter-spacing:0;margin-left:4px;font-size:17px;font-weight:500}.lpl-roi-sub{color:var(--l-mut);margin:10px 0 14px;font-size:13.5px;line-height:1.5}.lpl-roi-note{color:var(--l-ink);background:#e8f5ed;border-radius:8px;align-self:flex-start;margin-bottom:14px;padding:8px 12px;font-size:13px}.lpl-roi .lpl-pill{align-self:flex-start}.lpl-roi-fine{color:var(--l-soft);margin-top:12px;font-size:11.5px;line-height:1.5}@media (width<=860px){.lpl-roi{grid-template-columns:1fr}}.lpl-faq{flex-direction:column;display:flex}.lpl-faq details{border-top:1px solid var(--l-line)}.lpl-faq details:last-child{border-bottom:1px solid var(--l-line)}.lpl-faq summary{cursor:pointer;color:var(--l-ink);justify-content:space-between;align-items:center;padding:18px 4px;font-size:15.5px;font-weight:500;list-style:none;display:flex}.lpl-faq summary::-webkit-details-marker{display:none}.lpl-faq summary:after{content:"+";color:var(--l-mut);font-size:18px;font-weight:400}.lpl-faq details[open] summary:after{content:"−"}.lpl-faq p{color:var(--l-mut);max-width:74ch;margin:0 0 18px;padding:0 4px;font-size:14.5px;line-height:1.65}.lpl-bigfoot{border-top:1px solid var(--l-line);background:var(--l-surface);margin-top:140px}.lpl-bigfoot-in{flex-wrap:wrap;justify-content:space-between;gap:40px;padding-top:48px;padding-bottom:36px;display:flex}.lpl-bf-brand{max-width:260px}.lpl-bf-tag{color:var(--l-mut);margin-top:12px;font-size:13px;line-height:1.55}.lpl-bf-cols{flex-wrap:wrap;gap:72px;display:flex}.lpl-bf-cols>div{flex-direction:column;gap:10px;min-width:130px;display:flex}.lpl-bf-h{color:var(--l-ink);letter-spacing:.02em;margin-bottom:4px;font-size:12px;font-weight:600}.lpl-bf-cols a,.lpl-bf-cols button{cursor:pointer;text-align:left;color:var(--l-mut);background:0 0;border:none;padding:0;font-family:inherit;font-size:13px;text-decoration:none}.lpl-bf-cols a:hover,.lpl-bf-cols button:hover{color:var(--l-ink);text-decoration:none}.lpl-bf-legal{border-top:1px solid var(--l-line);color:var(--l-mut);flex-wrap:wrap;justify-content:space-between;gap:16px;padding-top:18px;padding-bottom:30px;font-size:12px;display:flex}.lpl-hero-ctas{flex-wrap:wrap;align-items:center;gap:12px;margin-top:34px;display:flex}.lpl-tile-link{text-align:left;cursor:pointer;transition:border-color .13s var(--ease), box-shadow .13s var(--ease);font-family:inherit}.lpl-tile-link:hover{border-color:#193d2b66;box-shadow:0 14px 44px #1b2a2024}.lpl-tile-go{color:var(--l-mut);margin-top:auto;padding-top:6px;font-size:12.5px;font-weight:500}.lpl-tile-link:hover .lpl-tile-go{color:var(--l-forest-2)}.lpl-tile-cta{cursor:pointer;text-align:left;background:0 0;border:none;padding:6px 0 0;font-family:inherit}.lpl-tile-cta:hover{color:var(--l-ink)}.lpl-platform .lpl-tile{min-height:128px}.lpl-bullets{color:var(--l-mut);flex-direction:column;gap:6px;margin:0;padding-left:16px;font-size:13px;line-height:1.5;display:flex}.lpl-badgeband{flex-wrap:wrap;align-items:center;gap:10px;margin-top:22px;display:flex}.lpl-badgechip{color:var(--l-mut);border:1px solid var(--l-line);background:var(--l-raised);border-radius:99px;padding:5px 12px;font-size:12px;font-weight:500}.lpl-modal-backdrop{z-index:90;-webkit-backdrop-filter:blur(2px);backdrop-filter:blur(2px);background:#18201b59;justify-content:center;align-items:flex-start;padding-top:14vh;animation:.12s fadeIn;display:flex;position:fixed;inset:0}.lpl-modal{background:var(--l-raised);border:1px solid var(--l-line);width:min(440px,92vw);box-shadow:var(--l-shadow);border-radius:16px;flex-direction:column;gap:12px;padding:24px;display:flex}.lpl-modal-t{color:var(--l-ink);letter-spacing:-.02em;font-size:19px;font-weight:600}.lpl-modal-d{color:var(--l-mut);font-size:13.5px;line-height:1.55}.lpl-modal input{border:1px solid var(--l-line-strong);color:var(--l-ink);background:var(--l-surface);border-radius:8px;padding:10px 12px;font-family:inherit;font-size:14px}.lpl-modal input:focus{border-color:var(--l-protected);outline:none}.lpl-modal-row{gap:10px;margin-top:4px;display:flex}.lpl-modal-ok{color:var(--l-ink);background:#e8f5ed;border-radius:8px;padding:8px 12px;font-size:12.5px}.lpl-step-n{background:var(--l-forest);color:#eaf7ef;border-radius:99px;justify-content:center;align-items:center;width:26px;height:26px;margin-bottom:2px;font-size:13px;font-weight:600;display:inline-flex}.ob-wrap{background:var(--bg);grid-template-columns:minmax(480px,46%) 1fr;min-height:100vh;display:grid}@media (width<=960px){.ob-wrap{grid-template-columns:1fr}.ob-art{display:none}}.ob-panel{background:var(--surface);border-right:1px solid var(--line);flex-direction:column;padding:24px 48px 28px;display:flex}.ob-stage{flex-direction:column;flex:1;justify-content:center;max-width:560px;display:flex}.ob-step{animation:riseIn .26s var(--ease)}.ob-eyebrow{font-family:var(--font-mono);letter-spacing:.14em;text-transform:uppercase;color:var(--brand-ink);align-items:center;gap:8px;margin-bottom:16px;font-size:11px;font-weight:600;display:inline-flex}.ob-eyebrow-dot{background:var(--brand);border-radius:99px;width:5px;height:5px;animation:2s ease-in-out infinite lampPulse}.ob-h1{font-family:var(--font-display);letter-spacing:-.025em;margin:0 0 12px;font-size:clamp(30px,3.4vw,42px);font-weight:650;line-height:1.08}.ob-h1 em{color:var(--brand-ink);font-style:normal}.ob-sub{color:var(--ink-2);max-width:52ch;margin:0 0 26px;font-size:15px;line-height:1.65}.ob-nav{justify-content:space-between;align-items:center;margin-top:34px;display:flex}.ob-textlink{cursor:pointer;font-family:inherit;font-size:inherit;color:var(--brand-ink);background:0 0;border:none;padding:0}.ob-textlink:hover{text-decoration:underline}.ob-art{background:#101613;align-items:center;display:flex;position:relative;overflow:hidden}.ob-art:before{content:"";background:radial-gradient(70% 50% at 50% 0,#34c98b17,#0000 70%);position:absolute;inset:0}.ob-art-inner{flex-direction:column;gap:26px;width:100%;padding:48px min(6vw,72px);display:flex;position:relative}.ob-wow{max-width:380px}.ob-wow-eyebrow{font-family:var(--font-mono);letter-spacing:.12em;text-transform:uppercase;color:#7d9186;margin-bottom:10px;font-size:10.5px}.ob-wow-n{font-family:var(--font-display);letter-spacing:-.03em;color:#5fe0ad;font-size:56px;font-weight:650;line-height:1}.ob-wow-n span{color:#7d9186;font-size:26px}.ob-wow-d{color:#a6b3ab;margin-top:10px;font-size:13.5px;line-height:1.6}.ob-shot{border:1px solid #e7ede91f;border-radius:12px;overflow:hidden;box-shadow:0 30px 80px #00000073}.ob-shot img{width:100%;height:auto;display:block}.lpl-weekone{border-top:1px solid var(--l-line);flex-direction:column;display:flex}.lpl-wo-row{border-bottom:1px solid var(--l-line);grid-template-columns:minmax(0,1fr) 34px minmax(0,1fr);align-items:baseline;gap:10px;padding:16px 4px;font-size:15px;line-height:1.5;display:grid}@media (width<=700px){.lpl-wo-row{grid-template-columns:1fr}.lpl-wo-arrow{display:none}}.lpl-wo-before{color:var(--l-mut)}.lpl-wo-arrow{color:var(--l-protected);text-align:center}.lpl-wo-after{color:var(--l-ink);font-weight:500}.ob-dots{gap:5px;margin-left:10px;display:inline-flex}.ob-dots i{background:var(--line-2);border-radius:99px;width:5px;height:5px}.ob-dots i.on{background:var(--brand)}.ob-dots i.done{background:var(--brand-soft)}.lpl-pill{white-space:nowrap}@media (width<=640px){.lpl-nav-links a,.lpl-nav-links .lpl-menubtn,.lpl-nav-links .lpl-ghostlink{display:none}.lpl-nav-links{gap:10px}.lpl-hero{padding-top:140px}.lpl-desktop-br{display:none}.lpl-hero-ctas .lpl-pill-lg,.lpl-hero-ctas .lpl-ghost{text-align:center;flex:auto}}@media print{.sidebar,.topbar,.no-print{display:none!important}.page{max-width:none;padding:0}body{background:#fff}.card{box-shadow:none}}

diff --git a/index.html b/index.html
@@ -20,15 +20,14 @@
     <meta name="twitter:image" content="https://tiago520.github.io/doorman-showcase/shots/control-room-day.png" />
     <link rel="preconnect" href="https://fonts.googleapis.com" />
     <link rel="preconnect" href="https://fonts.gstatic.com" crossorigin />
-    <!-- Only what the design references: Inter is the non-Apple fallback for
-         the SF system stack (800 covers the extrabold wordmark); IBM Plex Mono
-         is the code face. Inter Tight / Instrument * were unreferenced. -->
+    <!-- Plus Jakarta Sans: the measured OpenRouter UI face (user reference);
+         IBM Plex Mono stays the code face. -->
     <link
-      href="https://fonts.googleapis.com/css2?family=Inter:wght@400;500;600;700;800&family=IBM+Plex+Mono:ital,wght@0,400;0,450;0,500;0,600;1,400&display=swap"
+      href="https://fonts.googleapis.com/css2?family=Plus+Jakarta+Sans:wght@400;500;600;700;800&family=IBM+Plex+Mono:ital,wght@0,400;0,450;0,500;0,600;1,400&display=swap"
       rel="stylesheet"
     />
-    <script type="module" crossorigin src="./assets/index-C5ydaZuj.js"></script>
-    <link rel="stylesheet" crossorigin href="./assets/index-CPKPF7dw.css">
+    <script type="module" crossorigin src="./assets/index-CCwX3yRZ.js"></script>
+    <link rel="stylesheet" crossorigin href="./assets/index-CEr7aOwy.css">
   </head>
   <body>
     <div id="root"></div>
